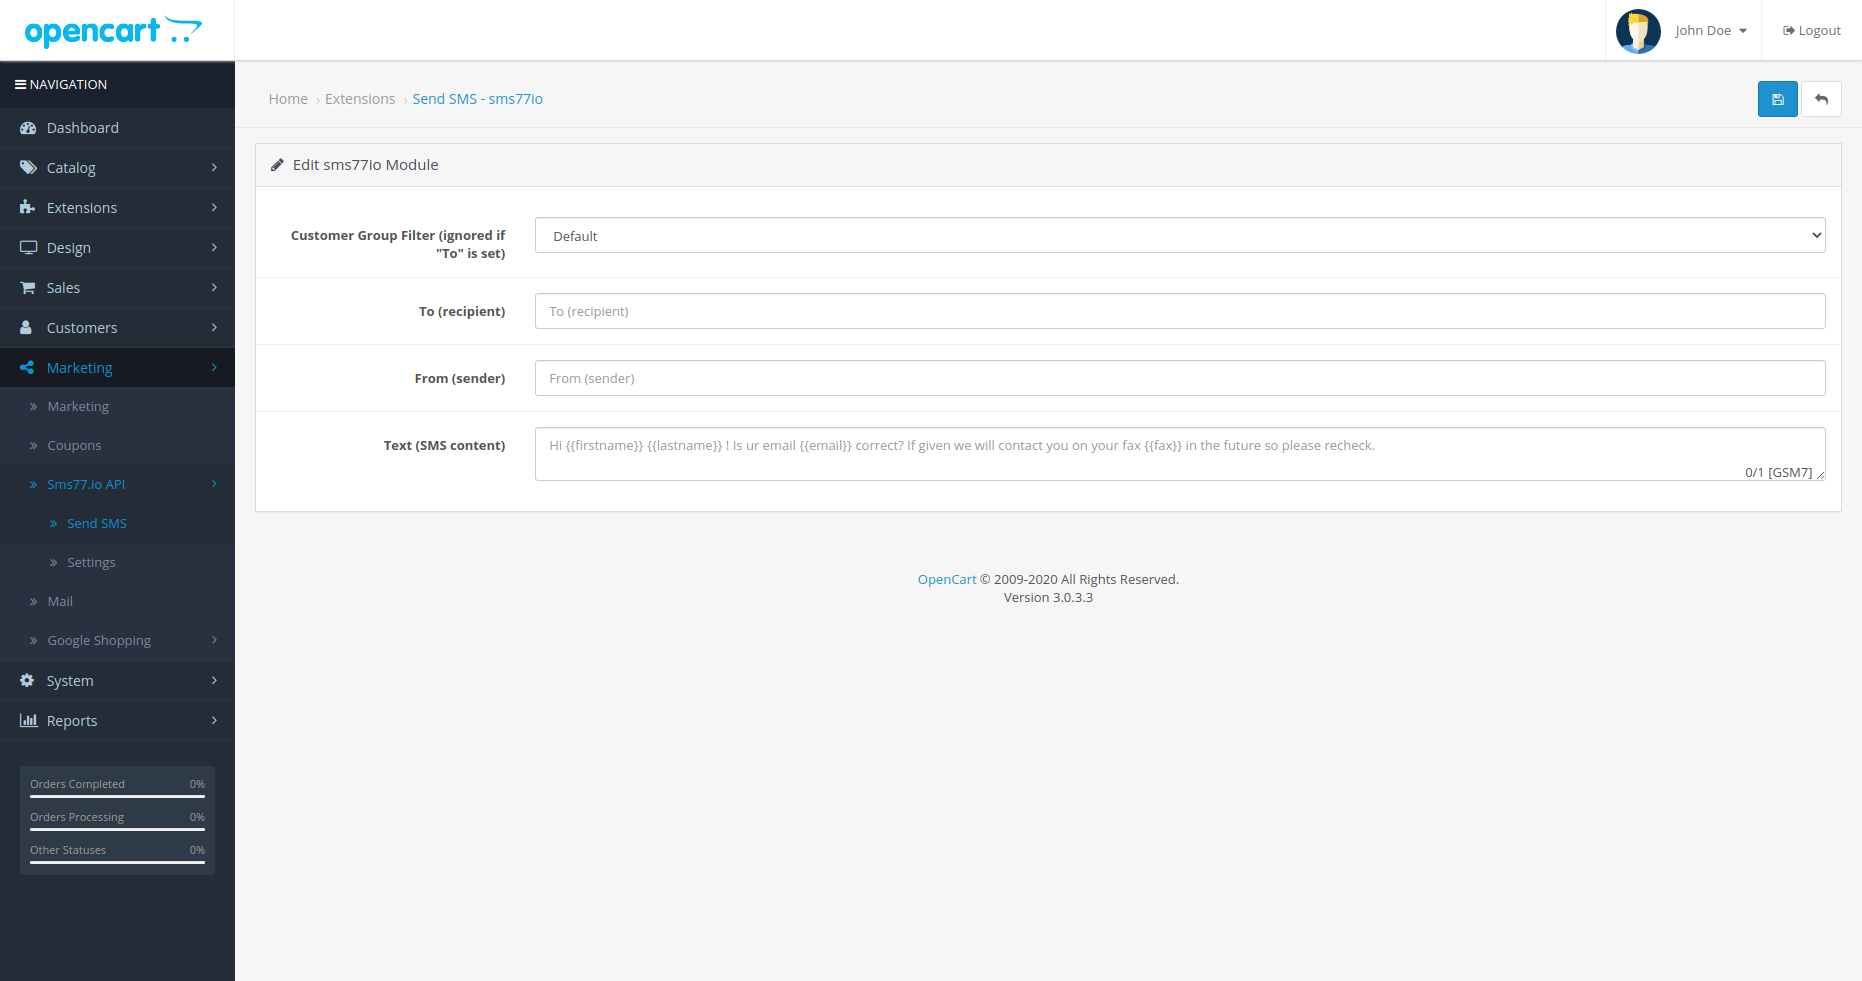
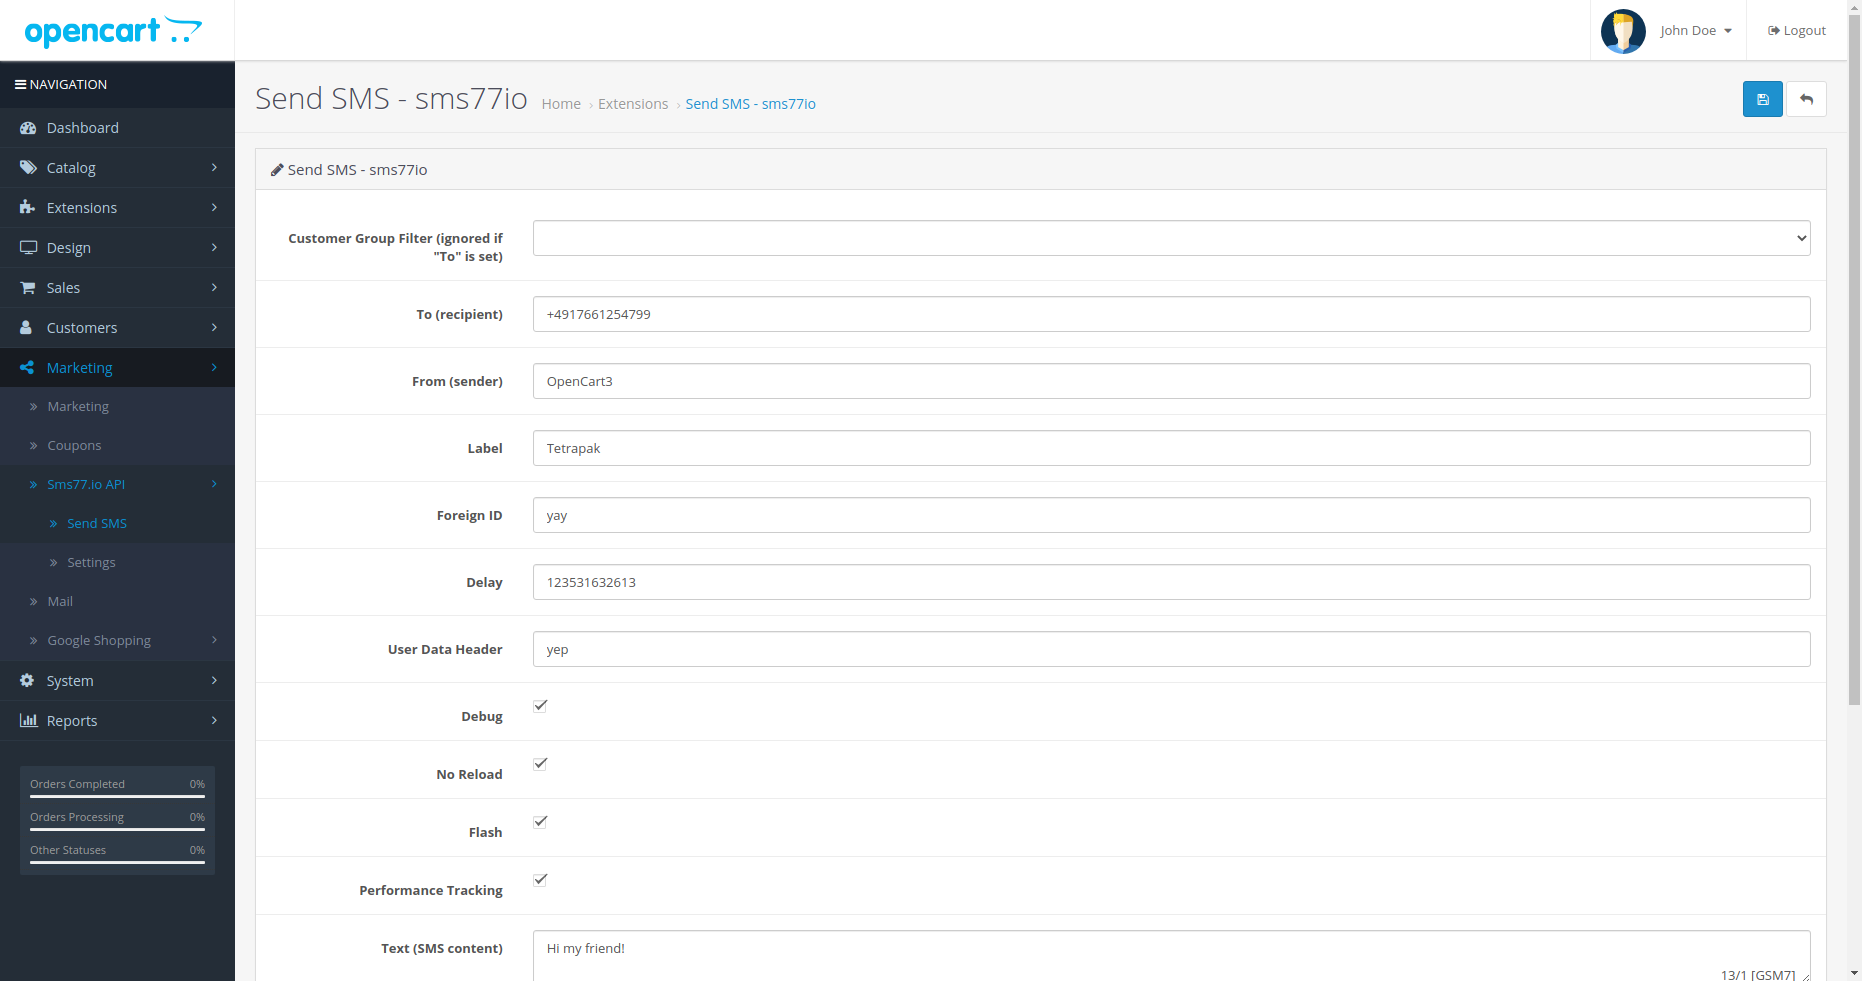
added more sms options + cleanup

diff --git a/sms77_api.ocmod/upload/admin/view/javascript/sms77_api.js b/sms77_api.ocmod/upload/admin/view/javascript/sms77_api.js
@@ -4,7 +4,7 @@ document.addEventListener('DOMContentLoaded', () => {
     const $submit = document.querySelector('button[form="form-module"]');
     const $write = $submit.previousElementSibling;
 
-    $('#writeSms').on('shown.bs.collapse', function () {
+    $('#writeSms').on('shown.bs.collapse', () => {
         $submit.style.display = 'inline-block';
 
         $write.style.display = 'none';

diff --git a/sms77_api.ocmod/upload/admin/controller/extension/module/sms77_api.php b/sms77_api.ocmod/upload/admin/controller/extension/module/sms77_api.php
@@ -1,16 +1,33 @@
 <?php
 
+/**
+ * @property object $model_setting_setting
+ * @property object $request
+ * @property object $session
+ * @property object $load
+ * @property object $document
+ * @property object $language
+ * @property object $user
+ * @property object $response
+ * @property object $model_customer_customer_group
+ * @property object $model_customer_customer
+ * @property object $model_extension_module_sms77_api_message
+ * @property object $url
+ * @property object $db
+ * @property object $model_setting_module
+ */
 class ControllerExtensionModuleSms77Api extends Controller {
     private $error = [];
 
-    public function __construct($registry) {
-        parent::__construct($registry);
+    public static $defaultSettings = ['status' => 1, 'name' => 'Sms77.io API'];
 
-        $this->load->language('extension/module/sms77_api');
-        $this->load->model('setting/setting');
-    }
+    public static $commonFields = ['warning', 'from', 'label', 'udh', 'debug',
+        'no_reload', 'debug', 'flash', 'performance_tracking', 'foreign_id',];
 
     public function index() {
+        $this->load->language('extension/module/sms77_api');
+        $this->load->model('setting/setting');
+
         $this->{isset($this->request->get['controllerAction'])
             ? $this->request->get['controllerAction'] : 'settings'}();
     }
@@ -25,9 +42,10 @@ class ControllerExtensionModuleSms77Api extends Controller {
                 if ($data['settings'] === $this->request->post) {
                     $this->error['unchanged'] = $this->language->get('error_unchanged');
                 } else {
-                    if (!$this->_postEqualsStored('sms77_api_apiKey', $data['settings'])
-                        && !is_float($this->_apiCall('balance'))) {
-                        $this->error['apiKey'] = $this->language->get('error_apiKey');
+                    if (!$this->_postEqualsStored('sms77_api_key', $data['settings'])
+                        && !is_float($this->_apiCall('balance',
+                            ['p' => $this->request->post['sms77_api_key']]))) {
+                        $this->error['key'] = $this->language->get('error_key');
                     }
 
                     $this->model_setting_setting->editSetting('sms77_api', $this->request->post);
@@ -37,12 +55,11 @@ class ControllerExtensionModuleSms77Api extends Controller {
             } else {
                 $this->error['warning'] = $this->language->get('error_permission');
             }
-
-            $this->response->redirect($this->url->link('marketplace/extension',
-                "user_token={$this->session->data['user_token']}&type=module", true));
         }
 
-        $this->_toError(['warning', 'apiKey', 'from', 'unchanged', 'label', 'udh',], $data);
+        $this->_toError(array_merge(self::$commonFields, ['key', 'unchanged',]), $data);
+
+        $data['settings'] = $this->_getSettings();
 
         $this->response->setOutput($this->load->view('extension/module/sms77_api_settings', $data));
     }
@@ -80,21 +97,23 @@ class ControllerExtensionModuleSms77Api extends Controller {
     }
 
     private function _postEqualsStored($key, array $settings) {
-        return $settings[$key] === $this->request->post[$key];
+        return array_key_exists($key, $settings)
+            ? $settings[$key] === $this->request->post[$key] : false;
     }
 
     private function _apiCall($endpoint, array $data = []) {
-        $apiKey = $this->_getSettings()['sms77_api_apiKey'];
+        $merge = [
+            'sendWith' => 'OpenCart',
+        ];
 
-        if (!utf8_strlen($apiKey)) {
-            return false;
+        if (!isset($data['p'])) {
+            $merge['p'] = $this->_getSettings()['sms77_api_key'];
         }
 
+        $config = array_merge($data, $merge);
+
         return json_decode(file_get_contents("https://gateway.sms77.io/api/$endpoint?" .
-            http_build_query(array_merge($data, [
-                'p' => $apiKey,
-                'sendWith' => 'opencart',
-            ]))),
+            http_build_query($config)),
             true);
     }
 
@@ -137,7 +156,7 @@ class ControllerExtensionModuleSms77Api extends Controller {
             'messages' => $this->model_extension_module_sms77_api_message->getMessages(),
         ]);
 
-        $this->_toError(['warning', 'to', 'from', 'text', 'delay', 'udh', 'label'], $data);
+        $this->_toError(array_merge(self::$commonFields, ['delay', 'text', 'to',]), $data);
 
         $this->response->setOutput($this->load->view('extension/module/sms77_api_messages', $data));
     }
@@ -146,10 +165,18 @@ class ControllerExtensionModuleSms77Api extends Controller {
         $requests = [];
         $text = $this->_toValue('text');
         $to = $this->_toValue('to');
-        $from = $this->_toValue('from');
-        $label = $this->_toValue('label');
-        $udh = $this->_toValue('udh');
-        $delay = $this->_toValue('delay');
+        $baseConfig = [
+            'debug' => $this->_toNumericBool('debug'),
+            'delay' => $this->_toValue('delay'),
+            'flash' => $this->_toNumericBool('flash'),
+            'foreign_id' => $this->_toValue('foreign_id'),
+            'from' => $this->_toValue('from'),
+            'label' => $this->_toValue('label'),
+            'no_reload' => $this->_toNumericBool('no_reload'),
+            'json' => 1,
+            'performance_tracking' => $this->_toNumericBool('performance_tracking'),
+            'udh' => $this->_toValue('udh'),
+        ];
         $customerGroup = array_key_exists('customerGroup', $this->request->post)
             ? (int)$this->request->post['customerGroup'] : null;
 
@@ -206,27 +233,22 @@ class ControllerExtensionModuleSms77Api extends Controller {
             foreach (count($requests) ? $requests : [['text' => $text, 'to' => $to,]] as $request) {
                 $this->model_extension_module_sms77_api_message->setMessageResponse(
                     $this->model_extension_module_sms77_api_message->addMessage($this->request->post),
-                    $this->_apiCall('sms', array_merge($request, [
-                        'delay' => $delay,
-                        'from' => $from,
-                        'label' => $label,
-                        'json' => 1,
-                        'udh' => $udh,
-                    ])));
+                    $this->_apiCall('sms', array_merge($request, $baseConfig)));
             }
 
             $this->session->data['success'] = $this->language->get('text_success');
-
-            $this->response->redirect(
-                $this->url->link('extension/module/sms77_api', 'user_token='
-                    . $this->session->data['user_token']
-                    . '&type=module&controllerAction=messages', true));
         }
     }
 
     private function _toValue($key) {
         return array_key_exists($key, $this->request->post)
             ? $this->request->post[$key] : null;
+    }
+
+    private function _toNumericBool($key) {
+        $value = (bool)$this->_toValue($key);
+
+        return $value ? 1 : 0;
     }
 
     private static function _isValidPlaceholder($word) {
@@ -244,15 +266,23 @@ class ControllerExtensionModuleSms77Api extends Controller {
     }
 
     public function install() {
-        $this->db->query("CREATE TABLE IF NOT EXISTS `" . DB_PREFIX . "sms77_api_message` (
-		  `id` INT(11) NOT NULL AUTO_INCREMENT,
-		  `response` TEXT DEFAULT NULL,
-		  `config` TEXT NOT NULL,
-		  PRIMARY KEY (`id`)
-		) ENGINE=MyISAM DEFAULT CHARSET=utf8");
+        $this->load->model('setting/module');
+        $this->load->model('setting/setting');
+        $this->load->model('extension/module/sms77_api_message');
+
+        $this->model_extension_module_sms77_api_message->install();
+
+        $this->model_setting_module->addModule('sms77_api', self::$defaultSettings);
+
+        $this->model_setting_setting->editSetting('sms77_api', ['sms77_api_status' => 1]); //TODO? prefix with module_
     }
 
     public function uninstall() {
-        $this->db->query("DROP TABLE IF EXISTS`" . DB_PREFIX . "sms77_api_message`");
+        $this->load->model('setting/setting');
+        $this->load->model('extension/module/sms77_api_message');
+
+        $this->model_setting_setting->deleteSetting('sms77_api');
+
+        $this->model_extension_module_sms77_api_message->uninstall();
     }
 }

diff --git a/sms77_api.ocmod/upload/admin/language/en-gb/extension/module/sms77_api.php b/sms77_api.ocmod/upload/admin/language/en-gb/extension/module/sms77_api.php
@@ -1,13 +1,18 @@
 <?php
 $_['caption_msg_history'] = 'Records of all outgoing SMS';
 
-$_['error_apiKey'] = 'Invalid API key!';
-$_['error_delay'] = 'Invalid "delay" value!';
-$_['error_from'] = 'Invalid "from" value (sender name)!';
-$_['error_label'] = 'Invalid "label" value!';
+$_['error_key'] = 'Invalid API Key!';
+$_['error_debug'] = 'Invalid "Debug" value!';
+$_['error_delay'] = 'Invalid "Delay" value!';
+$_['error_flash'] = 'Invalid "Flash" value!';
+$_['error_foreign_id'] = 'Invalid Foreign ID!';
+$_['error_from'] = 'Invalid "From" value (sender name)!';
+$_['error_label'] = 'Invalid "Label" value!';
+$_['error_no_reload'] = 'Invalid "No Reload" value!';
 $_['error_permission'] = 'Warning: You do not have permission to modify the sms77io module!';
-$_['error_to'] = 'Invalid recipient!';
-$_['error_text'] = 'Invalid "text" value!';
+$_['error_performance_tracking'] = 'Invalid "Performance Tracking" value!';
+$_['error_to'] = 'Invalid "To" value!';
+$_['error_text'] = 'Invalid "Text" value!';
 $_['error_udh'] = 'Invalid "User Data Header"!';
 $_['error_unchanged'] = 'No changes detected!';
 
@@ -15,20 +20,26 @@ $_['filter_customerGroup'] = 'Customer Group Filter (ignored if "To" is set)';
 
 $_['heading_settings'] = 'Settings - sms77io';
 $_['heading_messages'] = 'Send SMS - sms77io';
+$_['heading_title'] = 'Sms77.io API';
 
 $_['placeholder_text'] = 'Hi {{firstname}} {{lastname}} ! Is ur email {{email}} correct? If given we will contact you on your fax {{fax}} in the future so please recheck.';
 
-$_['setting_apiKey'] = 'API Key';
+$_['setting_key'] = 'API Key';
+$_['setting_debug'] = 'Debug';
 $_['setting_delay'] = 'Delay';
+$_['setting_flash'] = 'Flash';
+$_['setting_foreign_id'] = 'Foreign ID';
 $_['setting_from'] = 'From (sender)';
 $_['setting_label'] = 'Label';
+$_['setting_no_reload'] = 'No Reload';
+$_['setting_performance_tracking'] = 'Performance Tracking';
 $_['setting_to'] = 'To (recipient)';
 $_['setting_text'] = 'Text (SMS content)';
 $_['setting_udh'] = 'User Data Header';
 
+$_['text_created'] = 'Created';
 $_['text_edit_settings'] = 'Edit Settings - sms77io';
 $_['text_extension'] = 'Extensions';
-$_['text_id'] = 'ID';
 $_['text_config'] = 'Config';
 $_['text_response'] = 'Response';
 $_['text_msg_history'] = 'Message History';

diff --git a/sms77_api.ocmod/upload/admin/model/extension/module/sms77_api_message.php b/sms77_api.ocmod/upload/admin/model/extension/module/sms77_api_message.php
@@ -93,4 +93,18 @@ class ModelExtensionModuleSms77ApiMessage extends Model {
     public function getTotalMessages() {
         return $this->db->query("SELECT COUNT(*) AS total FROM " . DB_PREFIX . "sms77_api_message")->row['total'];
     }
+
+    public function install() {
+        $this->db->query("CREATE TABLE IF NOT EXISTS `" . DB_PREFIX . "sms77_api_message` (
+		  `id` INT(11) NOT NULL AUTO_INCREMENT,
+		  `config` TEXT NOT NULL,
+          `created` DATETIME NOT NULL DEFAULT CURRENT_TIMESTAMP,
+          `response` TEXT DEFAULT NULL,
+		  PRIMARY KEY (`id`)
+		) ENGINE=MyISAM DEFAULT CHARSET=utf8");
+    }
+
+    public function uninstall() {
+        $this->db->query("DROP TABLE IF EXISTS `" . DB_PREFIX . "sms77_api_message`");
+    }
 }
